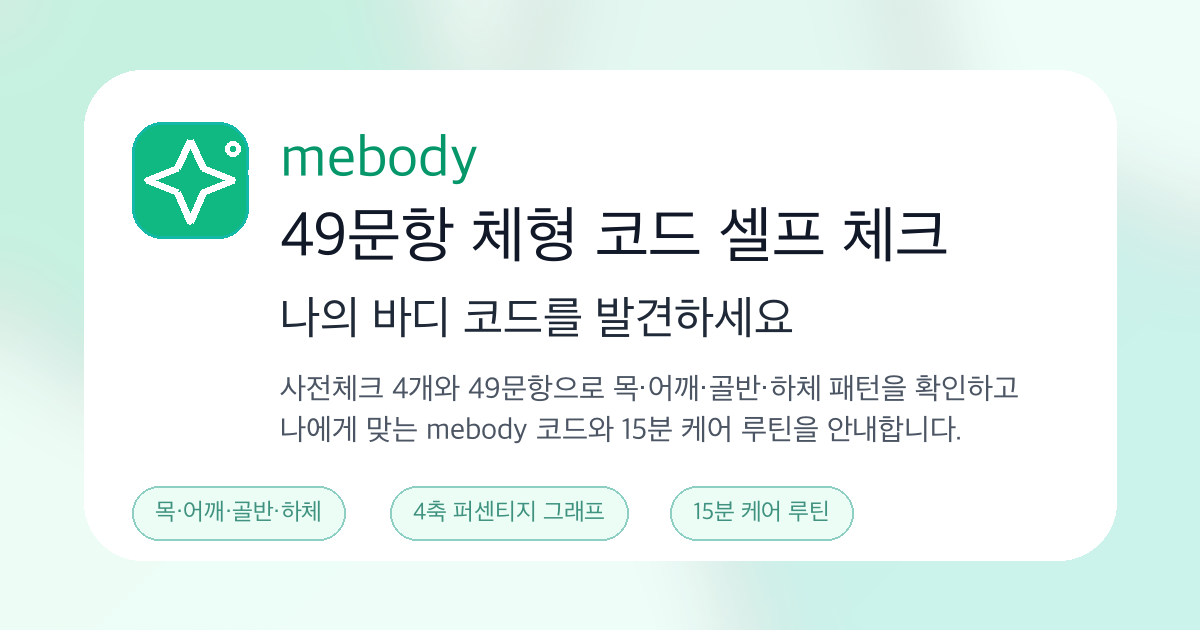
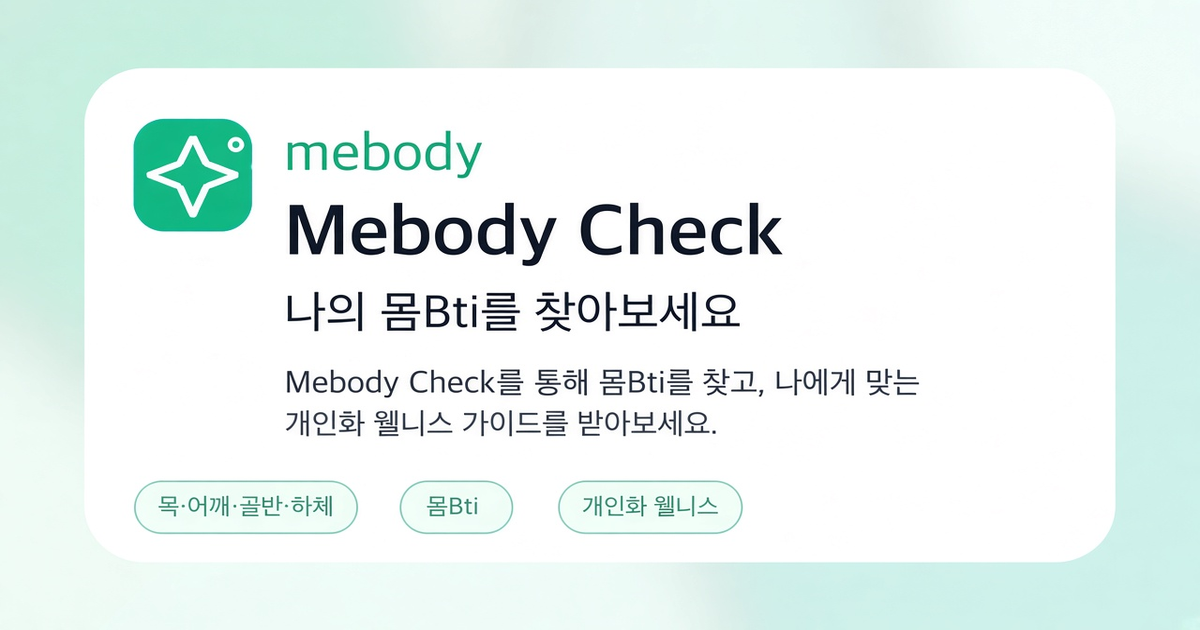
Align SEO and OG preview with Mebody Check / 몸Bti messaging.
Drop outdated question-count copy from meta, manifest, and social image so share previews match the product story.

diff --git a/index.html b/index.html
@@ -3,13 +3,13 @@
   <head>
     <meta charset="UTF-8" />
     <meta name="viewport" content="width=device-width, initial-scale=1.0, viewport-fit=cover" />
-    <title>mebody | 32문항 체형 코드 셀프 체크</title>
+    <title>mebody | Mebody Check로 몸Bti 찾기</title>
 
-    <meta name="description" content="mebody는 32문항으로 목·어깨·골반·하체 패턴을 확인하고, 나에게 맞는 mebody 코드와 15분 케어 루틴을 안내하는 웰니스 셀프 체크 서비스입니다." />
+    <meta name="description" content="Mebody Check를 통해 몸Bti를 찾고, 나에게 맞는 개인화 웰니스 가이드를 받아보세요." />
     <meta name="robots" content="index, follow" />
     <meta name="author" content="mebody" />
     <meta name="application-name" content="mebody" />
-    <meta name="keywords" content="mebody, 미바디, 체형 코드, 체형 분석, 자세 셀프 체크, 바디 코드, 32문항 체형 체크, 자세와 균형, 15분 케어 루틴, 웰니스" />
+    <meta name="keywords" content="mebody, 미바디, Mebody Check, 몸Bti, 바디 코드, 체형 코드, 자세 셀프 체크, 개인화 웰니스, 웰니스 가이드, 자세와 균형" />
     <meta name="format-detection" content="telephone=no" />
     <meta name="color-scheme" content="light" />
     <meta name="theme-color" content="#10b981" />
@@ -23,20 +23,20 @@
     <meta property="og:site_name" content="mebody" />
     <meta property="og:locale" content="ko_KR" />
     <meta property="og:url" content="https://mebody-jjh.vercel.app/" />
-    <meta property="og:title" content="mebody | 나의 체형 코드를 발견하세요" />
-    <meta property="og:description" content="32문항으로 목·어깨·골반·하체 패턴을 확인하고, 나에게 맞는 mebody 코드와 15분 케어 루틴을 안내합니다." />
-    <meta property="og:image" content="https://mebody-jjh.vercel.app/og-image.png" />
-    <meta property="og:image:secure_url" content="https://mebody-jjh.vercel.app/og-image.png" />
+    <meta property="og:title" content="mebody | Mebody Check로 몸Bti 찾기" />
+    <meta property="og:description" content="Mebody Check를 통해 몸Bti를 찾고, 나에게 맞는 개인화 웰니스 가이드를 받아보세요." />
+    <meta property="og:image" content="https://mebody-jjh.vercel.app/og-image.png?v=20260909" />
+    <meta property="og:image:secure_url" content="https://mebody-jjh.vercel.app/og-image.png?v=20260909" />
     <meta property="og:image:type" content="image/png" />
     <meta property="og:image:width" content="1200" />
     <meta property="og:image:height" content="630" />
-    <meta property="og:image:alt" content="mebody 32문항 체형 코드 셀프 체크" />
+    <meta property="og:image:alt" content="mebody Mebody Check — 몸Bti와 개인화 웰니스 가이드" />
 
     <meta name="twitter:card" content="summary_large_image" />
-    <meta name="twitter:title" content="mebody | 나의 체형 코드를 발견하세요" />
-    <meta name="twitter:description" content="32문항으로 목·어깨·골반·하체 패턴을 확인하고, 나에게 맞는 mebody 코드와 15분 케어 루틴을 안내합니다." />
-    <meta name="twitter:image" content="https://mebody-jjh.vercel.app/og-image.png" />
-    <meta name="twitter:image:alt" content="mebody 32문항 체형 코드 셀프 체크" />
+    <meta name="twitter:title" content="mebody | Mebody Check로 몸Bti 찾기" />
+    <meta name="twitter:description" content="Mebody Check를 통해 몸Bti를 찾고, 나에게 맞는 개인화 웰니스 가이드를 받아보세요." />
+    <meta name="twitter:image" content="https://mebody-jjh.vercel.app/og-image.png?v=20260909" />
+    <meta name="twitter:image:alt" content="mebody Mebody Check — 몸Bti와 개인화 웰니스 가이드" />
 
     <meta name="apple-mobile-web-app-capable" content="yes" />
     <meta name="mobile-web-app-capable" content="yes" />
@@ -59,14 +59,14 @@
             "@type": "WebApplication",
             "@id": "https://mebody-jjh.vercel.app/#webapp",
             "name": "mebody",
-            "alternateName": "MEBODY 체형 코드 셀프 체크",
+            "alternateName": "Mebody Check",
             "url": "https://mebody-jjh.vercel.app/",
             "applicationCategory": "HealthApplication",
             "operatingSystem": "Web",
             "inLanguage": "ko-KR",
             "isAccessibleForFree": true,
-            "description": "mebody는 32문항으로 목·어깨·골반·하체 패턴을 확인하고, 나에게 맞는 mebody 코드와 15분 케어 루틴을 안내하는 웰니스 셀프 체크 서비스입니다.",
-            "image": "https://mebody-jjh.vercel.app/og-image.png",
+            "description": "Mebody Check를 통해 몸Bti를 찾고, 나에게 맞는 개인화 웰니스 가이드를 받아보세요.",
+            "image": "https://mebody-jjh.vercel.app/og-image.png?v=20260909",
             "publisher": {
               "@id": "https://mebody-jjh.vercel.app/#organization"
             },
@@ -86,15 +86,15 @@
                 "name": "mebody는 어떤 서비스인가요?",
                 "acceptedAnswer": {
                   "@type": "Answer",
-                  "text": "mebody는 32문항으로 현재 몸이 자주 쓰는 방향을 확인하고, 나만의 mebody 코드와 웰니스 가이드를 안내하는 셀프 체크 서비스입니다."
+                  "text": "mebody는 Mebody Check로 몸Bti를 찾고, 나에게 맞는 개인화 웰니스 가이드를 안내하는 셀프 체크 서비스입니다."
                 }
               },
               {
                 "@type": "Question",
-                "name": "32문항 결과는 어떻게 계산되나요?",
+                "name": "몸Bti는 어떻게 확인하나요?",
                 "acceptedAnswer": {
                   "@type": "Answer",
-                  "text": "응답은 목 위치, 어깨 높이, 골반 회전, 하체 유연성의 4개 축으로 정리됩니다. 각 축의 방향성이 조합되어 4글자 mebody 코드가 만들어집니다."
+                  "text": "Mebody Check 응답을 목 위치, 어깨 높이, 골반 회전, 하체 유연성의 4개 축으로 정리합니다. 각 축의 방향성이 조합되어 나만의 몸Bti(mebody 코드)가 만들어집니다."
                 }
               },
               {
@@ -110,7 +110,7 @@
                 "name": "회원가입하면 무엇을 볼 수 있나요?",
                 "acceptedAnswer": {
                   "@type": "Answer",
-                  "text": "회원가입 후에는 지난 결과 저장, 내 mebody 코드 플랜, 자세 사용 설명서, 코드별 상세 가이드, 맞춤 15분 케어 루틴을 이어서 확인할 수 있습니다."
+                  "text": "회원가입 후에는 지난 결과 저장, 내 몸Bti 코드 플랜, 자세 사용 설명서, 코드별 상세 가이드, 맞춤 웰니스 루틴을 이어서 확인할 수 있습니다."
                 }
               },
               {
@@ -118,7 +118,7 @@
                 "name": "결과 페이지에서 어떤 정보를 확인할 수 있나요?",
                 "acceptedAnswer": {
                   "@type": "Answer",
-                  "text": "결과 페이지에서는 나의 mebody 코드, 캐릭터, 4축 퍼센티지 그래프, 한 줄 이해, 전체 16가지 체형 분류, 추천 루틴과 건강 용품 안내를 확인할 수 있습니다."
+                  "text": "결과 페이지에서는 나의 몸Bti, 캐릭터, 4축 퍼센티지 그래프, 한 줄 이해, 전체 16가지 체형 분류, 추천 루틴과 건강 용품 안내를 확인할 수 있습니다."
                 }
               }
             ]
@@ -133,4 +133,3 @@
     <script type="module" src="/src/main.tsx"></script>
   </body>
 </html>
-  
